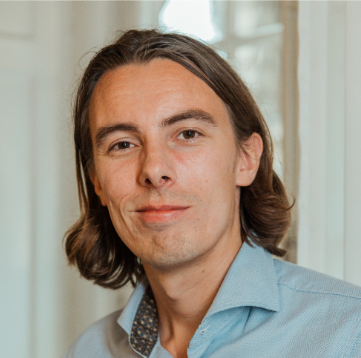
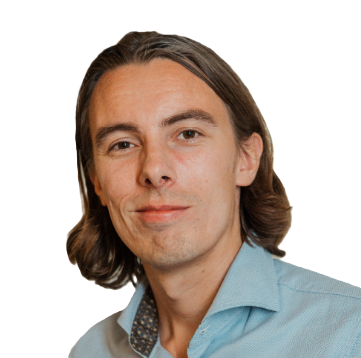
fixed photo with effect

diff --git a/src/Containers/container.css b/src/Containers/container.css
@@ -3,44 +3,98 @@
   z-index: 1;
   min-height: 100vh;
   overflow: hidden;
-
   display: flex;
   flex-direction: column;
-  
+  align-items: center;
 }
 
-
-
-
-
-.my-image{
-
-  position: fixed;
-  border-radius: 50%;
-  height: 200px;
-  width: auto;
-  top: 241px;
-  margin: auto;
-  padding: 1px;
-}
-
-
-#boxen{
-  
-    height: 500px;
-    width: 300px;
-    display: flex;
-   
-    justify-content: center; /* Centrerar innehållet i boxen */
-    background-color: rgba(240, 248, 255, 0.8); /* Gjort bakgrunden delvis transparent */
-    border-radius: 15px; /* Ger boxen rundade hörn */
-    box-shadow: 0 0 10px rgba(0, 0, 0, 0.1);
-    padding: 10px;
-    position: relative; /* Håller positionen relativ inom containern */
-    top: 100px;
-    margin-left: 400px;
-     /* Flyttar boxen något ner från toppen av containern */
+@keyframes float {
+  0% {
+    transform: translateY(0px);
   }
+  50% {
+    transform: translateY(-10px); /* Adjust the float height if needed */
+  }
+  100% {
+    transform: translateY(0px);
+  }
+}
+
+.my-image {
+  border-radius: 50%;
+  height: 300px;
+  width: 300px; /* Make it a square for better alignment */
+  margin-bottom: 10px;
+  animation: float 3s ease-in-out infinite;
+  background: linear-gradient(135deg, #3F72AF 0%, #112D4E 100%);
+  box-shadow: 0 10px 20px rgba(0, 0, 0, 0.25);
+  position: relative;
+  overflow: hidden;
+}
+
+.my-image img {
+  border-radius: 50%;
+  width: 100%;
+  height: 100%;
+  object-fit: cover;
+}
+
+.boxes {
+  display: flex;
+  justify-content: center;
+  gap: 50px;
+  margin-top: 100px; /* Adjust this value as needed to position the boxes below the navbar */
+}
+
+#boxen {
+  height: 457px;
+  width: 363px;
+  display: flex;
+  flex-direction: column;
+  border-radius: 15px;
+  padding: 10px;
+ margin-top: 10px;  
+ margin-left: 800px;
+}
+
+#boxen img {
+  margin: auto;
+}
+
+#boxen2{
+
+  height: 600px;
+  width: 600px;
+  display: flex;
+  position: fixed;
+  left:300px;
+  top:250px;
+  flex-direction: column;
+
+}
+
+h1 {
+  font-size: 4.5rem;
+  font-family: 'Roboto', sans-serif;
+  font-weight: 700;
+  color: #1a1a1a;
+  text-transform: none;
+  letter-spacing: 0.5px;
+  margin:20px;
+  
+}
+
+h2 {
+  font-size: 2.5rem;
+  font-family: 'Roboto', sans-serif;
+  font-weight: 500;
+  color: #1a1a1a;
+  text-transform: none;
+  letter-spacing: 0.5px;
+  margin:5px;
+}
+
+
 
 
 

diff --git a/src/Containers/Container.jsx b/src/Containers/Container.jsx
@@ -1,17 +1,29 @@
 import React from 'react';
 import './container.css';
 import Comet from './comet';
+import About from '../aboutme/About';
 
 const Container = ({ children }) => {
   return (
     <div className="container">
         <Comet />
-      <div id = "boxen">
-      
-      <img src="/jag.png" alt="Bild på mig" className="my-image" />
-      <p>Lorem ipsum dolor sit amet consectetur adipisicing elit. Quam ipsam nihil illo omnis est sit, consequatur soluta, accusamus sunt enim repellendus id beatae voluptatem explicabo totam pariatur quod! Vel, veniam.</p>
-      {children}
-      </div>
+        <div className="boxes">
+
+        <div id="boxen2"> 
+          <h2>Niclas  Norman</h2>
+            <h1>Frontend developer</h1>
+
+          </div>
+          <div id="boxen">
+            <img src="/jag.png" alt="Bild på mig" className="my-image" />
+            
+            {children}
+          </div>
+
+          <About />
+
+          
+        </div>
       </div>
   );
 };

diff --git a/src/aboutme/About.jsx b/src/aboutme/About.jsx
@@ -1,0 +1,27 @@
+import React from 'react';
+import './About.css';
+
+const About = () => {
+  return (
+    <div className="about-container">
+      
+       
+        <div>
+          
+          <p>
+            Låt mig introducera mig själv och det som driver mig! Jag är en lugn och nyfiken person
+            som älskar att lösa problem och analysera olika situationer. Min förmåga att vara tålmodig
+            och se bortom det uppenbara hjälper mig att hitta kreativa lösningar på olika utmaningar.
+            Jag trivs i harmoniska miljöer och strävar alltid efter att skapa samarbete utan friktion.
+            Genom min analytiska natur och min passion för problemlösning är jag redo att ta mig an nya
+            projekt och utmaningar med öppet sinne och beslutsamhet. Jag ser fram emot att utforska
+            möjligheterna tillsammans!
+          </p>
+          
+        </div>
+      </div>
+   
+  );
+};
+
+export default About;

diff --git a/src/Containers/comet.css b/src/Containers/comet.css
@@ -2,16 +2,16 @@ body, html {
   height: 100%;
   margin: 0;
   overflow: hidden;
-  background: linear-gradient(135deg, #1e5799 0%, #2989d8 50%, #207cca 75%);
+  background: linear-gradient(135deg, #dae3ed 0%, #79b8ea 50%, #9bc5ea 75%);
 }
 
 .bubble {
   position: absolute;
   bottom: -100px;
-  background: rgba(255, 255, 255, 0.15);
+  background: rgba(1, 22, 80, 0.15);
   border-radius: 50%;
   pointer-events: none;
-  box-shadow: 0 0 20px rgba(255, 255, 255, 0.2);
+  box-shadow: 0 0 20px rgba(1, 13, 190, 0.2);
   animation: rise 20s infinite ease-in-out;
 }
 
@@ -23,3 +23,4 @@ body, html {
     transform: translateY(-100vh);
   }
 }
+

diff --git a/src/Navbars/navbar.jsx b/src/Navbars/navbar.jsx
@@ -6,7 +6,7 @@ function Navbar() {
         <div className="navbar-container">
             <nav className="navbar">
                 <div className="navbar-brand">
-                    <a href="#home">My Portfolio</a>
+                    <a href="#home">Niclas Norman</a>
                 </div>
                 <div className="navbar-links">
                     <a href="#home">Home</a>

diff --git a/src/aboutme/About.css b/src/aboutme/About.css
@@ -1,0 +1,20 @@
+/* About component styling */
+.about-container {
+  background: hidden;
+  border-radius: 15px;
+margin-top: 800px;
+  padding: 30px;
+  width: 80%;
+  max-width: 600px;
+ justify-content: center;
+  display:block;
+  font-family: 'Roboto', sans-serif;
+  color: #1a1a1a;
+position: absolute;}
+
+   
+  
+  
+ 
+  
+ 

diff --git a/src/App.css b/src/App.css
@@ -14,9 +14,10 @@
   display: flex;
   flex-direction: column;
   align-items: center; 
+  justify-content: center;
   padding:0;
   margin: 0px;
-  height: 400px;/* Centrera innehållet vertikalt */
+  height: 800px;/* Centrera innehållet vertikalt */
 }
 
 

diff --git a/src/App.jsx b/src/App.jsx
@@ -3,6 +3,7 @@ import React from 'react';
 import Navbar from './Navbars/navbar';
 import Container from './Containers/Container';
 import './App.css';
+import About from './aboutme/About';
 
 
 function App() {
